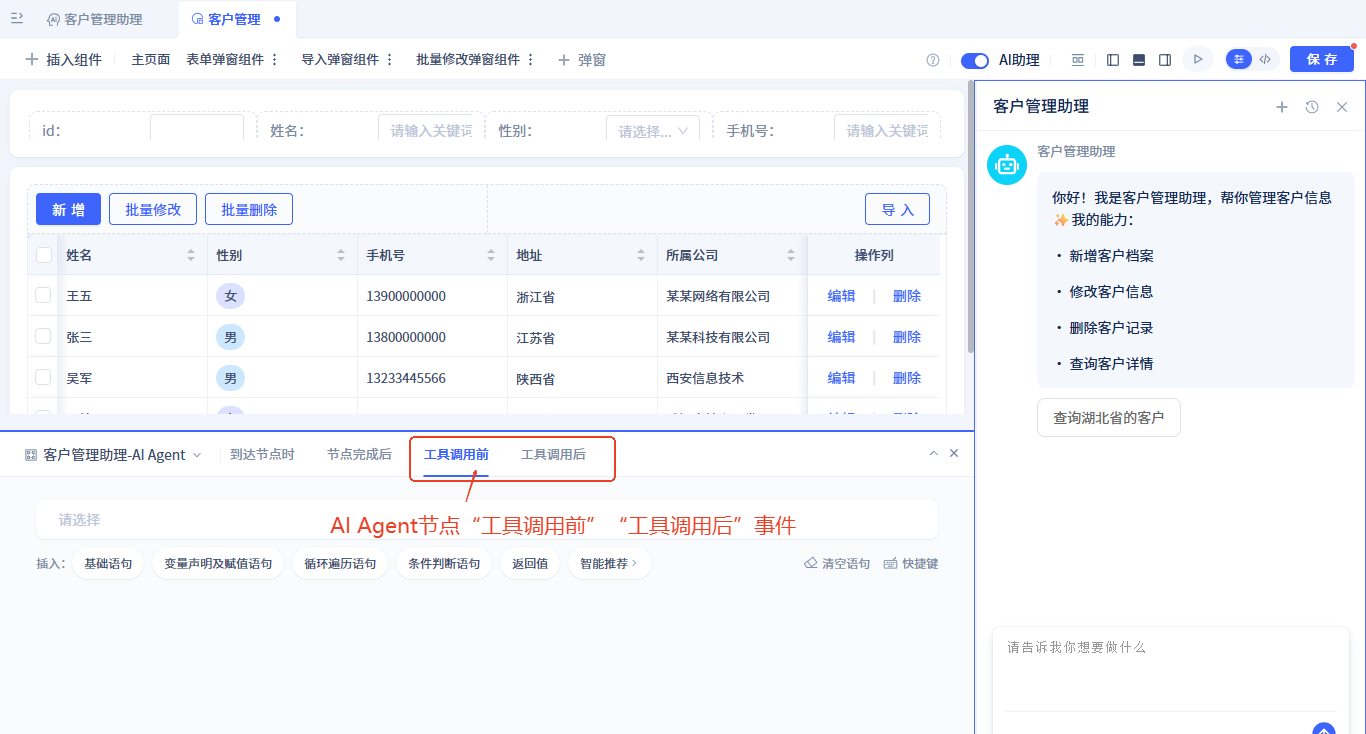
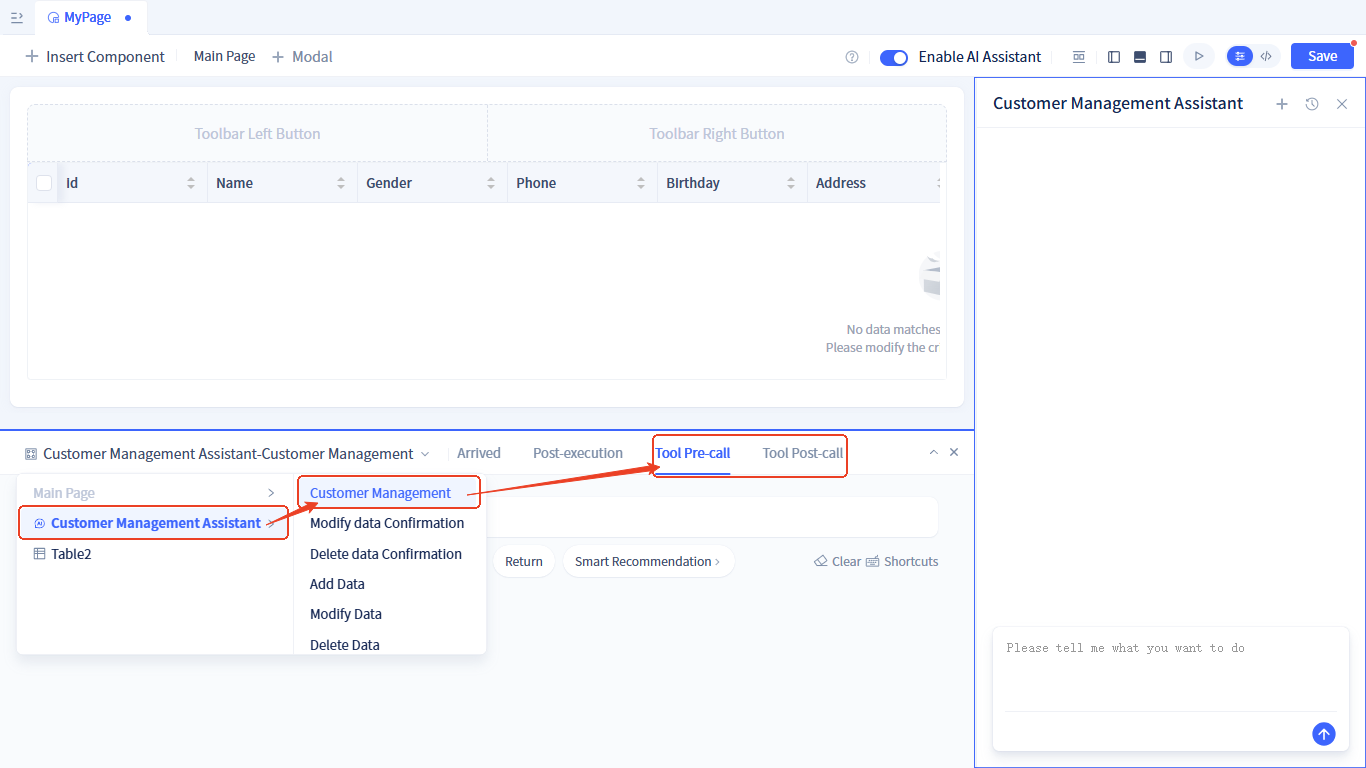
fix: 组件化页面中使用AI助理英文版截图

diff --git a/docs/devguide/ai-assistant/ai-assistant-event.md b/docs/devguide/ai-assistant/ai-assistant-event.md
@@ -5,20 +5,20 @@ slug: ai-assistant-event
 
 # AI Assistant Events
 
-AI assistants trigger various types of events during execution, which can be subscribed to and handled in frontend workspaces and backend business logic, enabling more flexible process control and user interaction.
+AI assistants trigger various types of events during execution, which can be subscribed to and handled in frontend pages and backend business logic, enabling more flexible process control and user interaction.
 
 ## Event type overview {#event-type-overview}
 AI assistants support the following main event types:
 - **Node Execution Events**: Triggered when nodes are reached and after execution is completed
 - **Tool Call Events**: Triggered before and after AI Agent uses tools
-- **Chat Area Human-Machine Interaction Events**: Triggered by user confirmation operations in the assistant chat area
-- **Workspace Human-Machine Interaction Events**: Triggered when the assistant runs to a workspace human-machine interaction node
+- **Action-in-conversation Events**: Triggered by user confirmation operations in the assistant conversation
+- **Action-in-page Events**: Triggered when the assistant runs to a Action-in-page node
 
 ## Frontend page events {#frontend-page-events}
 Frontend page events are mainly used for page UI state updates and user interaction handling. 
 
 ### Node execution events {#node-running-events}
-[AIAgent nodes](./process-orchestration-node-configuration#ai-agent), [Function nodes](./process-orchestration-node-configuration#function), [IF-ELSE nodes](./process-orchestration-node-configuration#if-else), and [Iteration nodes](./process-orchestration-node-configuration#iteration) can Trigger page event when they are arrivaled and post-execution. The prerequisite is that page event triggering needs to be enabled, as shown below:
+[AIAgent nodes](./process-orchestration-node-configuration#ai-agent), [Function nodes](./process-orchestration-node-configuration#function), [IF-ELSE nodes](./process-orchestration-node-configuration#if-else), and [Iteration nodes](./process-orchestration-node-configuration#iteration) can Trigger page event when they are arrived and post-execution. The prerequisite is that page event triggering needs to be enabled, as shown below:
 
 ![AI助理-工作区事件-配置](./img/assistant/assistant-workspace-event.png)
 
@@ -31,22 +31,22 @@ For AI Agent nodes, if tools are used during Agent execution, page events will a
 Tool call events carry parameters of dictionary (JitDict) type with the following attributes:
 - **toolName**: Tool name, such as "services.ASvc.func1". In event handling logic, developers need to handle accordingly based on the tool name.
 - **toolType**: Tool type, with optional values: model-model function, service-service function, ui-page function, mcp-MCP service, externalApi-external API
-- **args**: Parameters. If it's a pre-tool-call event and "Include data in event messages" is enabled, args contains the tool's input parameters; if it's a post-tool-call event and "Include data in event messages" is enabled, args contains the tool's return value.
+- **args**: Parameters. If it's a pre-tool-call event and "Include data in event messages" is enabled, args contains the tool's input args; if it's a post-tool-call event and "Include data in event messages" is enabled, args contains the tool's return value.
 
 After binding the assistant in a page, you can subscribe to tool call events. For subscription methods, see [Subscribing to Tool Events in Pages](../using-ai-in-portals-and-pages/using-ai-assistants-in-component-pages#subscribe-call-tool-events)
 
 
-### In conversation action events {#in-conversation-action-events} 
-When the process runs to a chat area human-machine interaction node, the dialog will display confirmation operation buttons such as `Approve`, `Reject`, `Edit`, `Reply`, and custom buttons.
+### Action-in-conversation events {#in-conversation-action-events} 
+When the process runs to a Action-in-conversation node, the dialog will display confirmation operation buttons such as `Approve`, `Reject`, `Edit`, `Reply`, and custom buttons.
 After the user performs confirmation operations or clicks custom buttons, page events will be triggered; the events carry parameters that are the data displayed on the node.
 
-After binding the assistant in a page, you can subscribe to these events. For subscription methods, see [Subscribing to Chat Area Human-Machine Interaction Events in Pages](../using-ai-in-portals-and-pages/using-ai-assistants-in-component-pages#subscribe-action-in-conversation-events)
+After binding the assistant in a page, you can subscribe to these events. For subscription methods, see [Subscribing to Action-in-conversation  Events in Pages](../using-ai-in-portals-and-pages/using-ai-assistants-in-component-pages#subscribe-action-in-conversation-events)
 
 
-### In page action events {#in-page-action-events} 
-When the process runs to a workspace human-machine interaction node, an assistant pause event will be triggered, which carries the parameters configured on the node.
+### Action-in-page events {#in-page-action-events} 
+When the process runs to a Action-in-page node, an assistant paused event will be triggered, which carries the parameters configured on the node.
 
-After binding the assistant in a page, you can subscribe to assistant pause events. For subscription methods, see [Subscribing to Workspace Human-Machine Interaction Events in Pages](../using-ai-in-portals-and-pages/using-ai-assistants-in-component-pages#subscribe-action-in-page-events)
+After binding the assistant in a page, you can subscribe to assistant pause events. For subscription methods, see [Subscribing to Action-in-page Events in Pages](../using-ai-in-portals-and-pages/using-ai-assistants-in-component-pages#subscribe-action-in-page-events)
 
 
 ## Backend business events {#backend-business-events}

diff --git a/docs/devguide/using-ai-in-portals-and-pages/using-ai-assistants-in-component-pages.md b/docs/devguide/using-ai-in-portals-and-pages/using-ai-assistants-in-component-pages.md
@@ -11,15 +11,15 @@ Follow these steps:
 
 ![Component Page - Bind AI Assistant](./img/component-page-bind-assistant.png)
 
-Turn on the `AI Assistant` switch at the top of the page editor and select an AI assistant.
+Enable and select an `AI Assistant` at the top of the page editor. 
 
 ## AI assistant configuration {#ai-assistant-configuration}
 
 After enabling the AI Assistant, an AI Assistant configuration panel will be displayed on the right side of the page editor with the following configuration options:
 - **AI Assistant**: Switch the AI assistant used in the page
 - **Welcome Message and Opening**: Set personalized [welcome message and opening](../ai-assistant/welcome-message-and-opening)
-- **Input Parameters**: If the assistant being used has [custom input parameters](../ai-assistant/ai-assistant-input-output#input-parameters) configured, these parameters need to be assigned values.
-- **Output Runtime Logs**: Customize the [runtime log](../ai-assistant/ai-assistant-input-output#message-output) content output by the assistant during runtime.
+- **Set the input args**: If the assistant being used has [custom input args](../ai-assistant/ai-assistant-input-output#input-args) configured, these args need to be assigned values.
+- **Output Process Log**: Customize the [runtime log](../ai-assistant/ai-assistant-input-output#message-output) content output by the assistant during runtime.
 
 ![Component Page - Bind AI Assistant](./img/component-page-assistant-config.png)
 
@@ -27,17 +27,17 @@ After enabling the AI Assistant, an AI Assistant configuration panel will be dis
 ## AI assistant event subscription {#ai-assistant-event-subscription}
 
 ### Subscribe to Node Running Events {#subscribe-node-running-events}
-After enabling [triggerable workspace events](../ai-assistant/ai-assistant-event#node-running-events) for nodes in the assistant, there will be two events: **When Node is Reached** and **After Node Completion**. The page subscription method is as follows:
+After enabling [Trigger page events](../ai-assistant/ai-assistant-event#frontend-page-events) for nodes in the assistant, there will be two events: **Arrived** and **Post-execution**. The page subscription method is as follows:
 
 ![AI Assistant - Workspace Event Subscription](./img/assistant-workspace-event-subscribe.png)
 
-In the event handling logic, you can use the parameters output by the event:
+Within the event handler, you can access the event's payload:
 
 ![AI Assistant - Workspace Event Subscription](./img/assistant-workspace-event-args.png)
 
 ### Subscribe to Tool Call Events {#subscribe-call-tool-events}
 
-After enabling [tool call events](../ai-assistant/ai-assistant-event#agent-call-tool-events) for AI Agent nodes in the assistant, there will be two events: **Before Tool Call** and **After Tool Call**. The page subscription method is as follows:
+After enabling [Tool call events](../ai-assistant/ai-assistant-event#agent-call-tool-events) for AI Agent nodes in the assistant, there will be two events: **Tool Pre-call** and **Tool Post-call**. The page subscription method is as follows:
 
 ![AI Assistant - Tool Call Event Subscription](./img/assistant-workspace-tool-event.png)
 

diff --git a/docs/devguide/approval-workflow/special-node-configuration.md b/docs/devguide/approval-workflow/special-node-configuration.md
@@ -133,7 +133,7 @@ When the current process flows to a subprocess, the data from the current proces
 Function design is performed in a visual form.
 
 :::warning Note
-Input parameters are fixed as the main process form data, and the return value type is single-row data. If the return value of the selected function does not match the form model, it will cause function execution exceptions.
+Input args are fixed as the main process form data, and the return value type is single-row data. If the return value of the selected function does not match the form model, it will cause function execution exceptions.
 :::
 
 ### Update Main Process Data When Single Subprocess Ends {#update-main-process-data-single-sub-process-end}
@@ -144,7 +144,7 @@ After the subprocess ends, determine whether the subprocess form data needs to b
 Function design is also performed in a visual form here.
 
 :::warning Note
-Input parameters are fixed as the main process form data and subprocess form data, and the return value type is single-row data. If the return value of the selected function does not match the form model, it will cause function execution exceptions.
+Input args are fixed as the main process form data and subprocess form data, and the return value type is single-row data. If the return value of the selected function does not match the form model, it will cause function execution exceptions.
 :::
 
 ### Update Main Process Data When All Subprocesses End {#update-main-process-data-all-sub-processes-end}
@@ -155,5 +155,5 @@ When the main process flows to subprocesses and generates multiple subprocesses 
 :::warning Note
 This function only applies to scenarios that generate multiple subprocesses.
 
-Input parameters are fixed as the main process form data and subprocess form data, and the return value type is single-row data. If the return value of the selected function does not match the form model, it will cause function execution exceptions.
+Input args are fixed as the main process form data and subprocess form data, and the return value type is single-row data. If the return value of the selected function does not match the form model, it will cause function execution exceptions.
 :::

diff --git a/docs/devguide/ai-assistant/ai-assistant-state.md b/docs/devguide/ai-assistant/ai-assistant-state.md
@@ -30,7 +30,7 @@ Runtime state data includes the following categories:
 ## Data usage methods {#data-usage-methods}
 Multiple usage scenarios for runtime state data in AI assistant processes:
 
-- **Node Configuration**: Select data as input parameters when configuring nodes
+- **Node Configuration**: Select data as input args when configuring nodes
 - **Conditional Judgment**: Make judgments based on data values in conditional branches
 - **Loop Processing**: Iterate through array-type data in loop nodes
 - **Data Display**: Display data to users in chat areas or workspaces
@@ -41,13 +41,13 @@ The data flow in AI assistants follows a clear pattern, with data being passed a
 
 ### Data input phase {#data-input-phase}
 1. **User Input**: Messages sent by users are passed in as `userInput` parameters
-2. **Custom Parameters**: Other input parameters configured through advanced settings
+2. **Custom Parameters**: Other input args configured through advanced settings
 3. **Initial Data**: All input data is stored in runtime state for use by subsequent nodes
 
 ### Inter-node data transfer {#inter-node-data-transfer}
 1. **Router Node**: Receives user input messages and passes them to the large model for content analysis
 
-2. **AIAgent Node**: Reads input parameters from runtime state, passes them to the bound Agent for task processing, and stores the Agent's return results in runtime state.
+2. **AIAgent Node**: Reads input args from runtime state, passes them to the bound Agent for task processing, and stores the Agent's return results in runtime state.
 
 3. **Function Node**: Reads function parameters from runtime state, passes them to the bound function, and stores the function's return value in runtime state.
 

diff --git a/docs/devguide/using-ai-in-portals-and-pages/using-ai-elements-in-pages.md b/docs/devguide/using-ai-in-portals-and-pages/using-ai-elements-in-pages.md
@@ -11,7 +11,7 @@ slug: using-ai-elements-in-pages
 
 ### Visual calling {#visual-calling}
 
-In statements, select `AI Assistant` → the assistant you want to call → `Run`, and pass in the [assistant's input parameters](../ai-assistant/ai-assistant-input-output#input-parameters).
+In statements, select `AI Assistant` → the assistant you want to call → `Run`, and pass in the [assistant's input args](../ai-assistant/ai-assistant-input-output#input-args).
 
 ![AI Assistant - Call](./img/call-assistant-in-page.png)
 ![AI Assistant - Call with Parameters](./img/call-assistant-in-page-input.png)
@@ -31,7 +31,7 @@ this.app.aiassistants.ClientManagementAssistant.run("Query Customer", {"paramA":
 
 ### Visual calling {#visual-calling-agent}
 
-In statements, select `Agent` → the Agent you want to call → `Run`, and pass in the [AI Agent's input parameters](../ai-agent/agent-input-output#configuring-input-variables).
+In statements, select `Agent` → the Agent you want to call → `Run`, and pass in the [AI Agent's input args](../ai-agent/agent-input-output#configuring-input-variables).
 
 ![AI Agent - Call](./img/call-agent-in-page.png)
 ![AI Agent - Call with Parameters](./img/call-agent-in-page-input.png)
@@ -55,7 +55,7 @@ In statements, select `Large Language Model` → the large language model you wa
 
 ![Large Language Model - Call](./img/call-llm-in-page.png)
 
-Then set the [input parameters](../ai-llm/llm-input-output#call-llm-input): the model to call, prompt, and output format.
+Then set the [input args](../ai-llm/llm-input-output#call-llm-input): the model to call, prompt, and output format.
 
 ![Large Language Model - Call with Parameters](./img/call-llm-in-page-input.gif)
 

diff --git a/docs/devguide/ai-assistant/process-orchestration-node-configuration.md b/docs/devguide/ai-assistant/process-orchestration-node-configuration.md
@@ -28,7 +28,7 @@ The AI assistant's visual orchestration tool allows you to design complex busine
 ## Node types explained {#node-types-explained}
 
 ### Start {#start-node}
-This is the starting point of the workflow, like the entry point of a project. It receives user input and other [input parameters](./ai-assistant-input-output#input-parameters), stores this information in [state data](./ai-assistant-state), and then begins task execution.
+This is the starting point of the workflow, like the entry point of a project. It receives user input and other [input args](./ai-assistant-input-output#input-args), stores this information in [state data](./ai-assistant-state), and then begins task execution.
 Each AI assistant can only have one start node, which is automatically generated after creating the assistant, so you don't need to add it manually.
 
 ### Router {#routing-decision}
@@ -111,7 +111,7 @@ This node needs to bind a service/model function. When the task flow runs to thi
 
 ![AI Assistant - Function Call Node - Binding](./img/assistant/function-bind.png)
 
-**Input parameter configuration**: The input parameters of the function call node are the parameters of its bound function. The parameter configuration method is the same as the [AIAgent node](#ai-agent) input parameter configuration method.
+**Input parameter configuration**: The input args of the function call node are the parameters of its bound function. The parameter configuration method is the same as the [AIAgent node](#ai-agent) input parameter configuration method.
 
 ### IF-ELSE {#if-else}
 Determines the next step of the flow based on the data situation in the current assistant state.

diff --git a/docs/devguide/advanced-guide/ai-question-grading.md b/docs/devguide/advanced-guide/ai-question-grading.md
@@ -45,7 +45,7 @@ JitAi enables complex AI application development to transition from laboratory e
 JitAi provides AI Large Language Model elements, AI Agent elements, AI Assistant elements, and Knowledge Base elements.
 
 - **AI Large Language Model Elements**: Implement API encapsulation for mainstream large language models on the market. Developers can configure large language model calls by simply filling in API addresses and API_KEYs. Large language model elements can be called as functions by service/model elements.
-- **AI Agent Elements**: Atomic AI application units that implement single AI functionalities through configuration of large language model elements, input parameters, output results, tools, and knowledge bases. AI Agents can be called independently like function calls or be invoked by assistant elements.
+- **AI Agent Elements**: Atomic AI application units that implement single AI functionalities through configuration of large language model elements, input args, output results, tools, and knowledge bases. AI Agents can be called independently like function calls or be invoked by assistant elements.
 - **AI Assistant Elements**: Used to implement complex tasks through visual workflow orchestration, combining multiple nodes and multiple Agents to achieve complex server-side business processes. On the frontend, they provide a dialog box that can be embedded into pages and interact with the pages.
 - **Knowledge Base Elements**: Used to implement RAG knowledge base encapsulation. Developers can build their own knowledge bases by uploading documents, and these knowledge bases can be called by Agents.
 

diff --git a/docs/devguide/business-logic-development/event-handling.md b/docs/devguide/business-logic-development/event-handling.md
@@ -125,12 +125,12 @@ In the IDE, click `+` -> `Event` -> `AI Assistant Event`, open the event configu
 When AI Agent calls tools, we can subscribe to this event to insert business processing logic during Agent execution. The prerequisite is that the tool needs to enable <a href="../ai-agent#ai-agent-tool-configuration">trigger events</a>.
 
 ### Trigger Timings {#agent-tool-trigger-timings}
-- **Before Tool Call**: Triggered before tool call.
-- **After Tool Call**: Triggered after tool call.
+- **Tool Pre-call**: Triggered before tool call.
+- **Tool Post-call**: Triggered after tool call.
 
 The parameters carried by the event are of dictionary (JitDict) type with the following attributes:
 - **toolName**: Tool name, such as: "services.ASvc.func1". In event processing logic, developers need to perform corresponding processing based on the tool name.
-- **args**: Parameters. If it's a before tool call event and `Include data in event message` is enabled, the args value is the input parameters for calling the tool; if it's an after tool call event and `Include data in event message` is enabled, the args value is the return value of the tool.
+- **args**: Parameters. If it's a before tool call event and `Include data in event message` is enabled, the args value is the input args for calling the tool; if it's an after tool call event and `Include data in event message` is enabled, the args value is the return value of the tool.
 
 ### Subscribing to Events {#subscribing-to-agent-tool-events}
 You need to create an Agent tool event element to subscribe.

diff --git a/docs/devguide/ai-llm/llm-input-output.md b/docs/devguide/ai-llm/llm-input-output.md
@@ -5,10 +5,10 @@ slug: llm-input-output
 
 # LLM Function Input and Output
 
-The core execution function of large language models is `runLlm`, which serves as the unified entry point for all LLM calls. This function accepts two types of key input parameters: **LLM configuration** (including model selection and parameter settings) and **prompt content** (including system prompts, user prompts, and variables), and uses **output control** configuration to standardize the format and structure of returned results.
+The core execution function of large language models is `runLlm`, which serves as the unified entry point for all LLM calls. This function accepts two types of key input args: **LLM configuration** (including model selection and parameter settings) and **prompt content** (including system prompts, user prompts, and variables), and uses **output control** configuration to standardize the format and structure of returned results.
 
 ## Calling LLM in Pages {#call-llm-in-pages}
-In page functions and event function logic, developers can use the runtime functions of LLM vendor elements to call LLMs and get LLM return values. These configurations will ultimately serve as input parameters for the `runLlm` function.
+In page functions and event function logic, developers can use the runtime functions of LLM vendor elements to call LLMs and get LLM return values. These configurations will ultimately serve as input args for the `runLlm` function.
 
 ![Page Call LLM](./img/1/page-call-large-model.gif)
 

diff --git a/docs/devguide/ai-agent/agent-tools.md b/docs/devguide/ai-agent/agent-tools.md
@@ -89,7 +89,7 @@ Each Agent tool call can trigger two backend events: pre-call and post-call even
 
 ![Agent Tool Events](./img/agent/agent-tool-events.gif "Agent Tool Events")
 
-The `Pre-Call` and `Post-Call` event configuration options appear on the right side of each tool function. Hovering over these options reveals a configuration panel for enabling or disabling `Event Triggering` and `Payload Inclusion`. Pre-Call event parameters include the tool name and input parameters, while Post-Call event parameters include the tool name and return results. The tool name is always included, while input parameters and return results are controlled by the `Payload Inclusion` setting.
+The `Pre-Call` and `Post-Call` event configuration options appear on the right side of each tool function. Hovering over these options reveals a configuration panel for enabling or disabling `Event Triggering` and `Payload Inclusion`. Pre-Call event parameters include the tool name and input args, while Post-Call event parameters include the tool name and return results. The tool name is always included, while input args and return results are controlled by the `Payload Inclusion` setting.
 
 To handle these events, developers must create [Agent Tool Event](../business-logic-development/event-handling#agent-tool-call-events) instance elements that subscribe to the Agent's tool call events and execute the corresponding event logic.
 

diff --git a/docs/devguide/ai-assistant/ai-assistant-input-output.md b/docs/devguide/ai-assistant/ai-assistant-input-output.md
@@ -5,15 +5,15 @@ slug: ai-assistant-input-output
 
 # AI Assistant Input and Output
 
-## Input parameters {#input-parameters}
-Each assistant has a fixed input parameter: user input (userInput). In addition, you can customize other input parameters. These parameters need to be assigned values when using the assistant.
+## Input args {#input-args}
+Each assistant has a fixed input parameter: user input (userInput). In addition, you can customize other input args. These parameters need to be assigned values when using the assistant.
 The setup steps are as follows:
 
 ![AI助理-高级设置](./img/assistant/assistant-input.png)
 
-Click the `Settings` button in the upper right corner of the process editor to open the settings window and add input parameters.
+Click the `Settings` button in the upper right corner of the process editor to open the settings window and add input args.
 
-If the assistant has custom input parameters configured, these parameters need to be assigned values when [using AI assistants in portals or pages](../using-ai-in-portals-and-pages).
+If the assistant has custom input args configured, these parameters need to be assigned values when [using AI assistants in portals or pages](../using-ai-in-portals-and-pages).
 
 ## Output content {#message-output}
 

diff --git a/docs/devguide/ai-assistant/ai-assistant-api-exposure.md b/docs/devguide/ai-assistant/ai-assistant-api-exposure.md
@@ -9,7 +9,7 @@ slug: ai-assistant-api-exposure
 After using an AI assistant in a page, there will be a **Send AI Message** function on the page. The function has the following parameters:
 - **Message Content**: The text message content to be sent
 - **Start New Conversation**: When enabled, it will open a new [conversation record](./ai-conversation-history) and send the message. If not enabled, it will send the message in the currently open conversation; if the assistant is paused at a workspace human-machine interaction node at this time, the process will resume.
-- **Custom Parameters**: [Custom input parameters](./ai-assistant-input-output#input-parameters) configured on the AI assistant
+- **Custom Parameters**: [Custom input args](./ai-assistant-input-output#input-args) configured on the AI assistant
 
 For calling methods, refer to [Sending AI Messages in Pages](../using-ai-in-portals-and-pages/using-ai-assistants-in-component-pages#send-ai-message)
 
